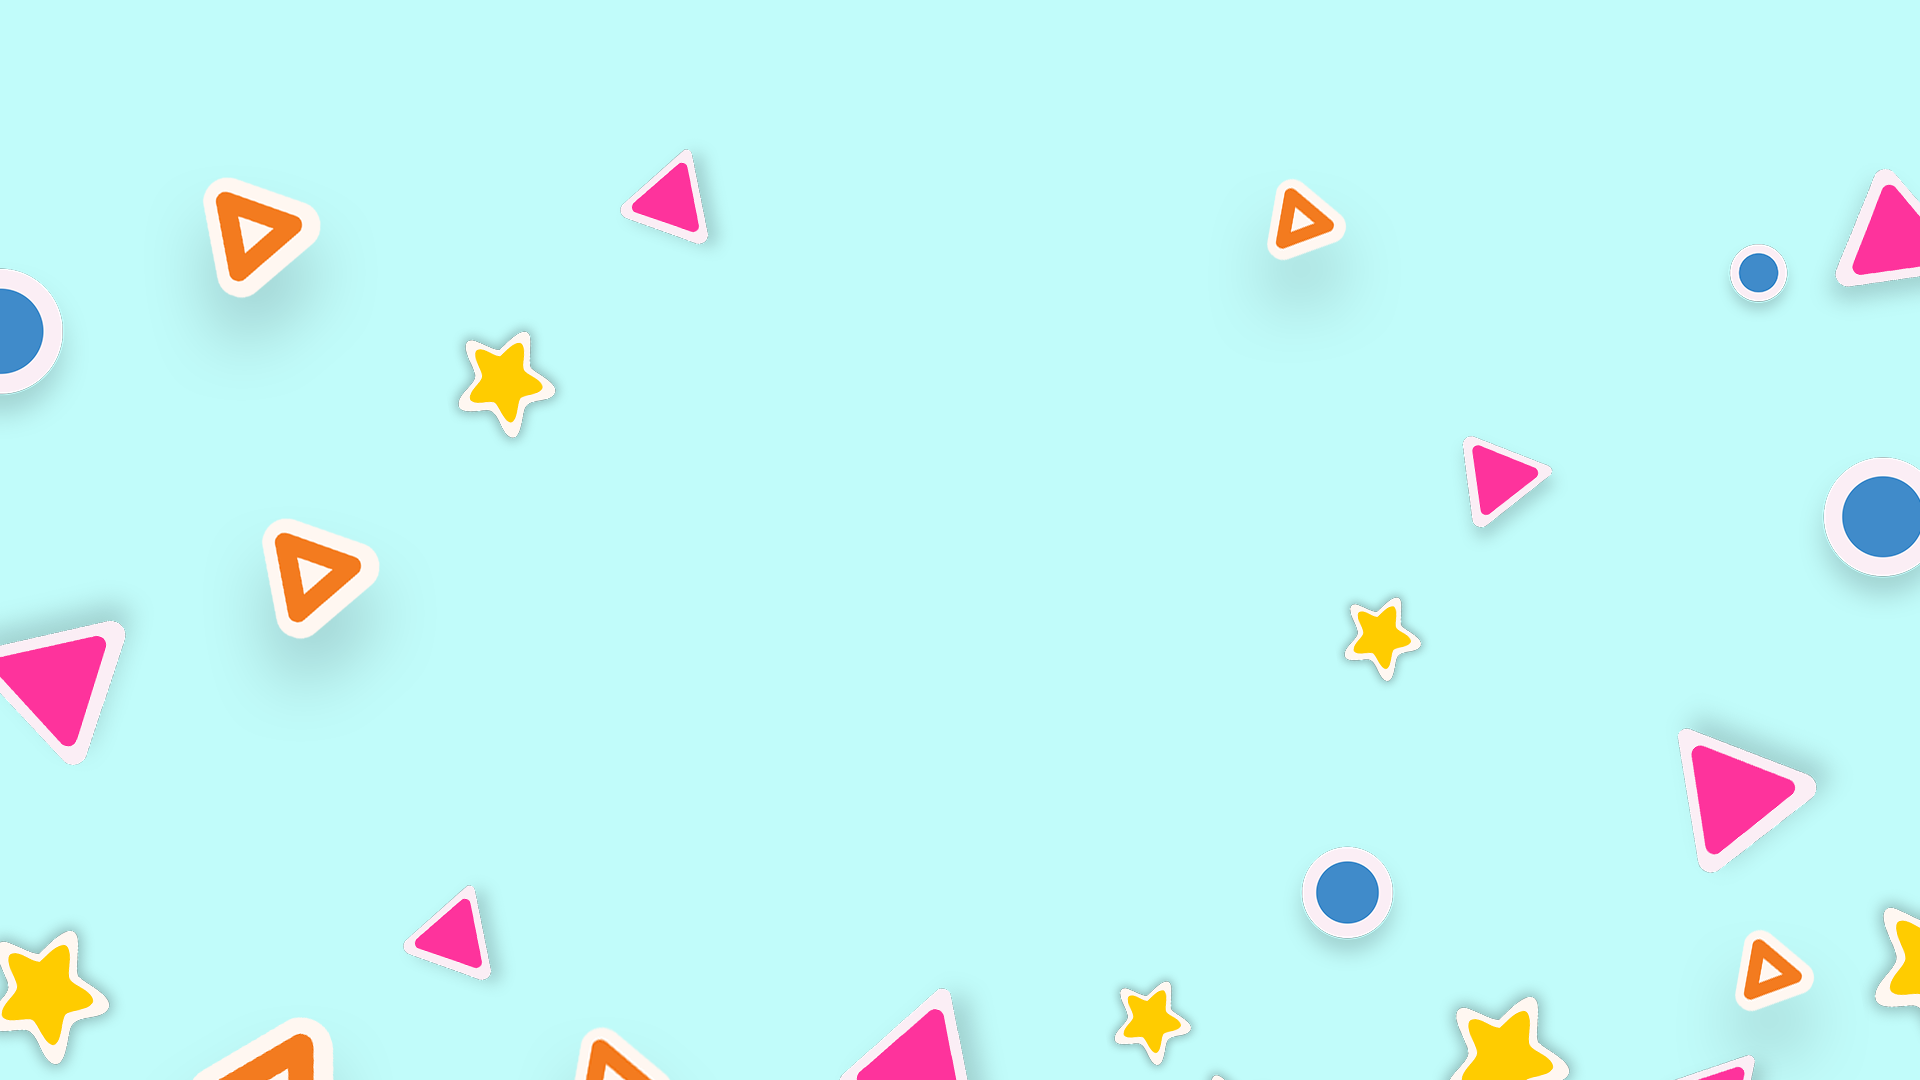
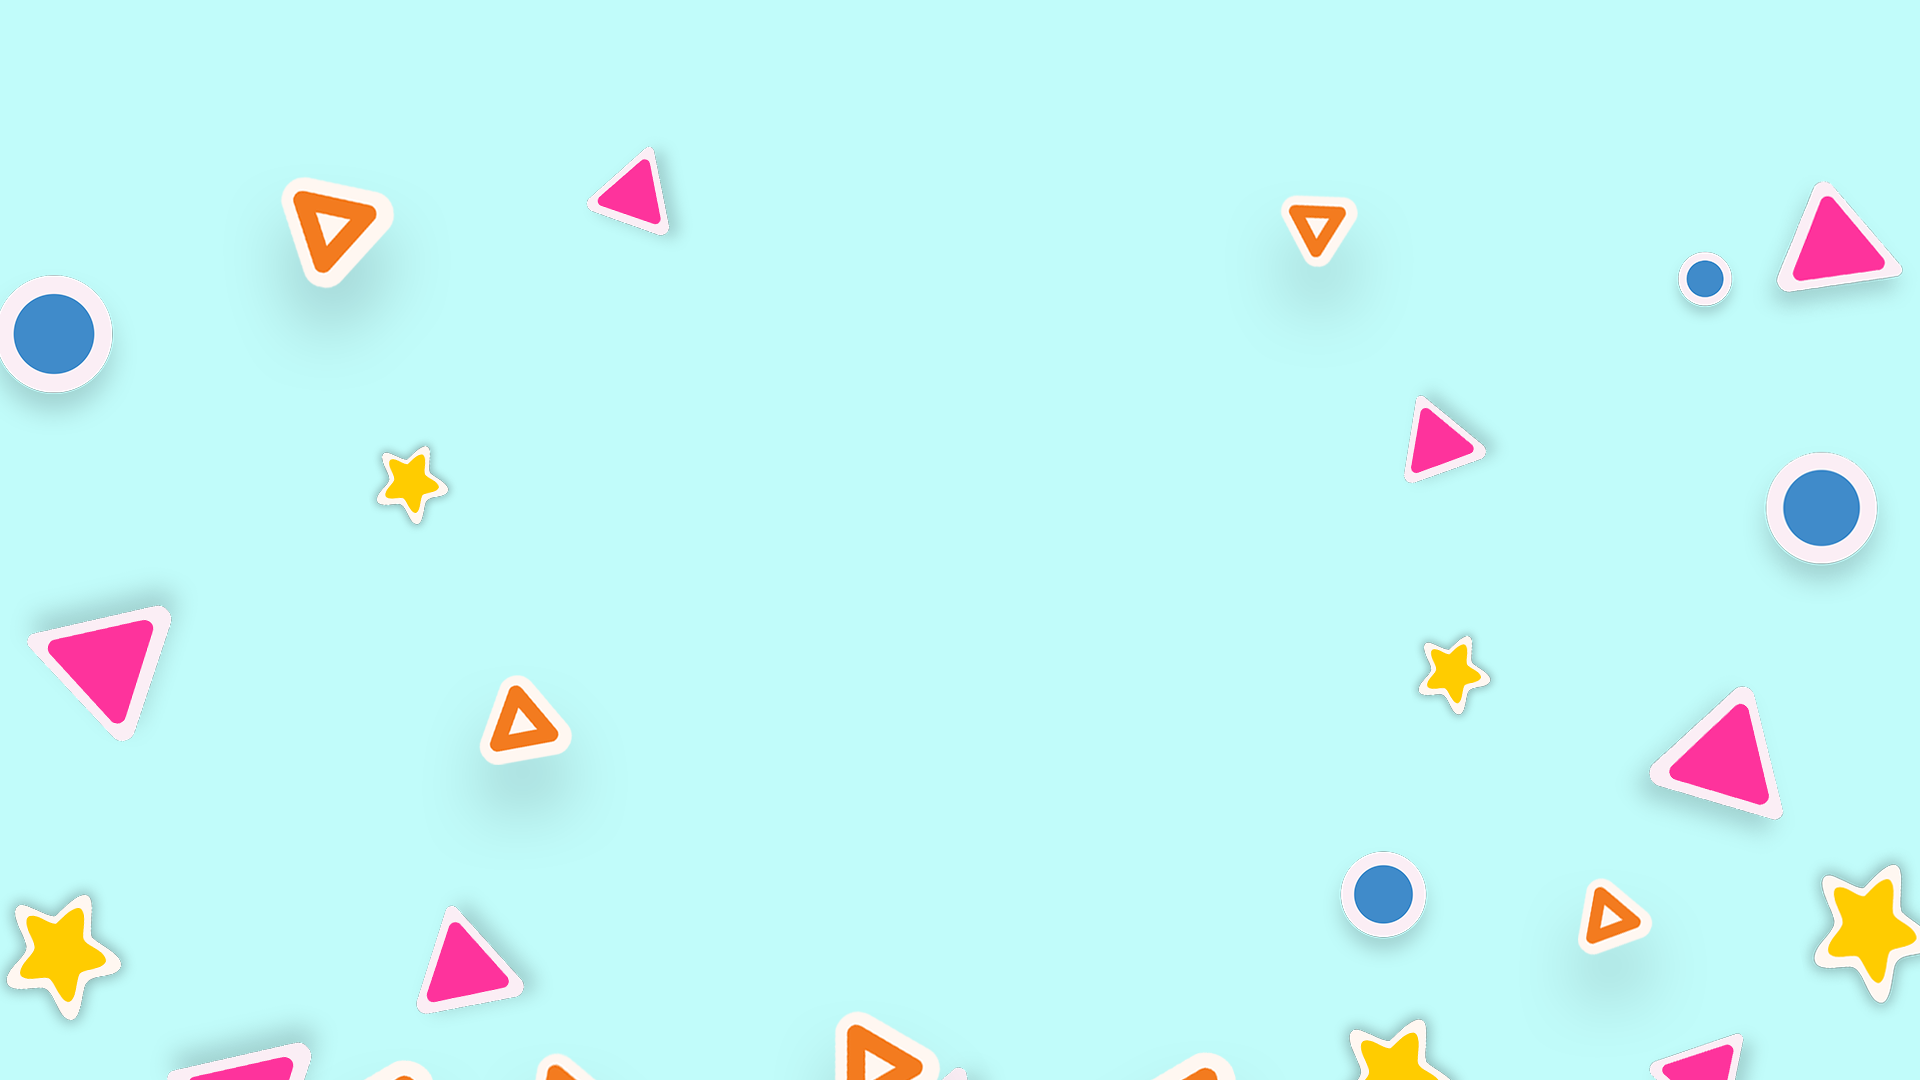
changed background

diff --git a/index.html b/index.html
@@ -103,7 +103,7 @@
               text-uppercase  mb-4 main-title font-weight-bold">What is Babybox?</h1>
        
          <p style="letter-spacing: 0.1em; "
-          class="text-blue main-text hero-text animate-header font-lucita  font-weight-light  ">
+          class="text-blue main-text text-shadow main-title hero-text animate-header font-lucita  font-weight-light  ">
           Lorem, ipsum dolor sit amet consectetur adipisicing elit. Ab quia pariatur deserunt, ipsa consectetur commodi. Consectetur, possimus explicabo. Facilis a voluptatum possimus blanditiis facere at voluptates vero minima ducimus dolor.</p>
        
             </div>
@@ -551,6 +551,8 @@
 <script src="https://cdnjs.cloudflare.com/ajax/libs/popper.js/1.11.0/umd/popper.min.js" integrity="sha384-b/U6ypiBEHpOf/4+1nzFpr53nxSS+GLCkfwBdFNTxtclqqenISfwAzpKaMNFNmj4" crossorigin="anonymous"></script>
 <script src="https://cdnjs.cloudflare.com/ajax/libs/gsap/3.5.1/gsap.min.js"></script>
 <script src="https://cdnjs.cloudflare.com/ajax/libs/gsap/3.4.2/ScrollTrigger.min.js"></script>
+
+<script src=" https://cdn.jsdelivr.net/npm/js-cookie@2/src/js.cookie.min.js"></script>
 <!--slider-->
 
 <!-- <script src="https://cdnjs.cloudflare.com/ajax/libs/slick-carousel/1.6.0/slick.js"></script> -->

diff --git a/css/style.css b/css/style.css
@@ -653,7 +653,7 @@ body {
 }
 
 .hero-img {
-  height: 100vh;
+  height: 800px;
   position: absolute;
   background-attachment: fixed;
   background-image: url("../img/webbg.png");
@@ -683,7 +683,7 @@ body {
     position: absolute;
     filter: blur(3px);
     background-attachment: fixed;
-    background-image: url("../img/webbg.png") !important;
+    background-image: url("../img/mobilbg.png") !important;
     background-size: cover;
     background-repeat: no-repeat;
     width: 100%;

diff --git a/scss/style.scss b/scss/style.scss
@@ -82,7 +82,7 @@ body {
 //   }
 // }9
 .hero-img {
-  height: 100vh;
+  height: 800px;
   position: absolute;
   // animation: image-in 2s both;
   // animation-delay: 500ms;
@@ -116,7 +116,7 @@ body {
     position: absolute;
     filter: blur(3px);
     background-attachment: fixed;
-    background-image: url("../img/webbg.png") !important;
+    background-image: url("../img/mobilbg.png") !important;
     background-size: cover;
     background-repeat: no-repeat;
     width: 100%;

diff --git a/js/main.js b/js/main.js
@@ -142,6 +142,13 @@ function showpartners() {
 //   )
 
 
+if (Cookies.get('noPreloader') === 'true') {
+  intro.hide();  
+  }
+  else {
+  $(window).on('load', function() {
+  Cookies.set('noPreloader', 'true', {expires: 1}); // 1 day cookie
+ 
   var intro = gsap.timeline({
     paused: false
 });
@@ -198,3 +205,6 @@ intro.to(".hero-img", 0.3, {
 
 
 
+
+  });
+  }
